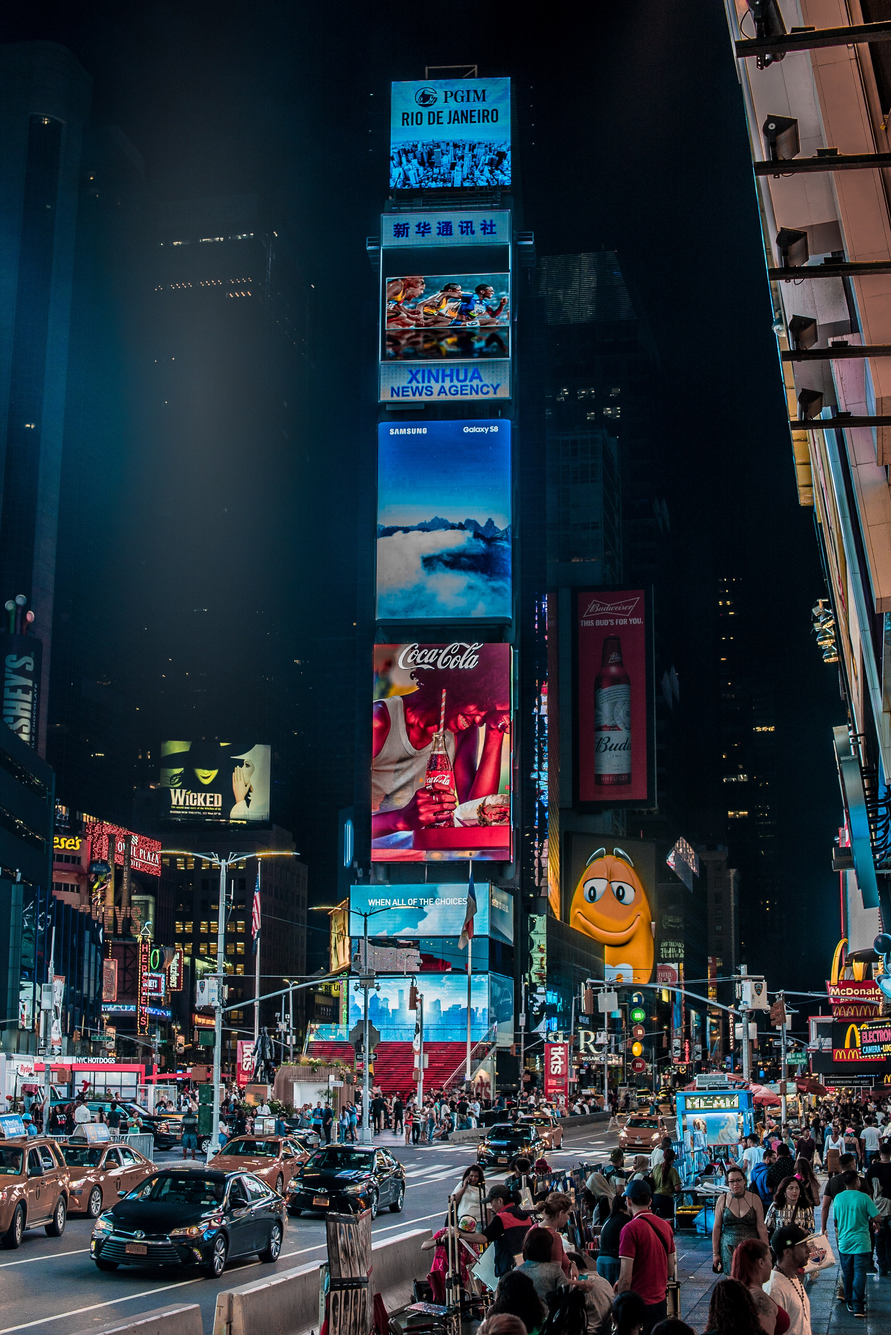
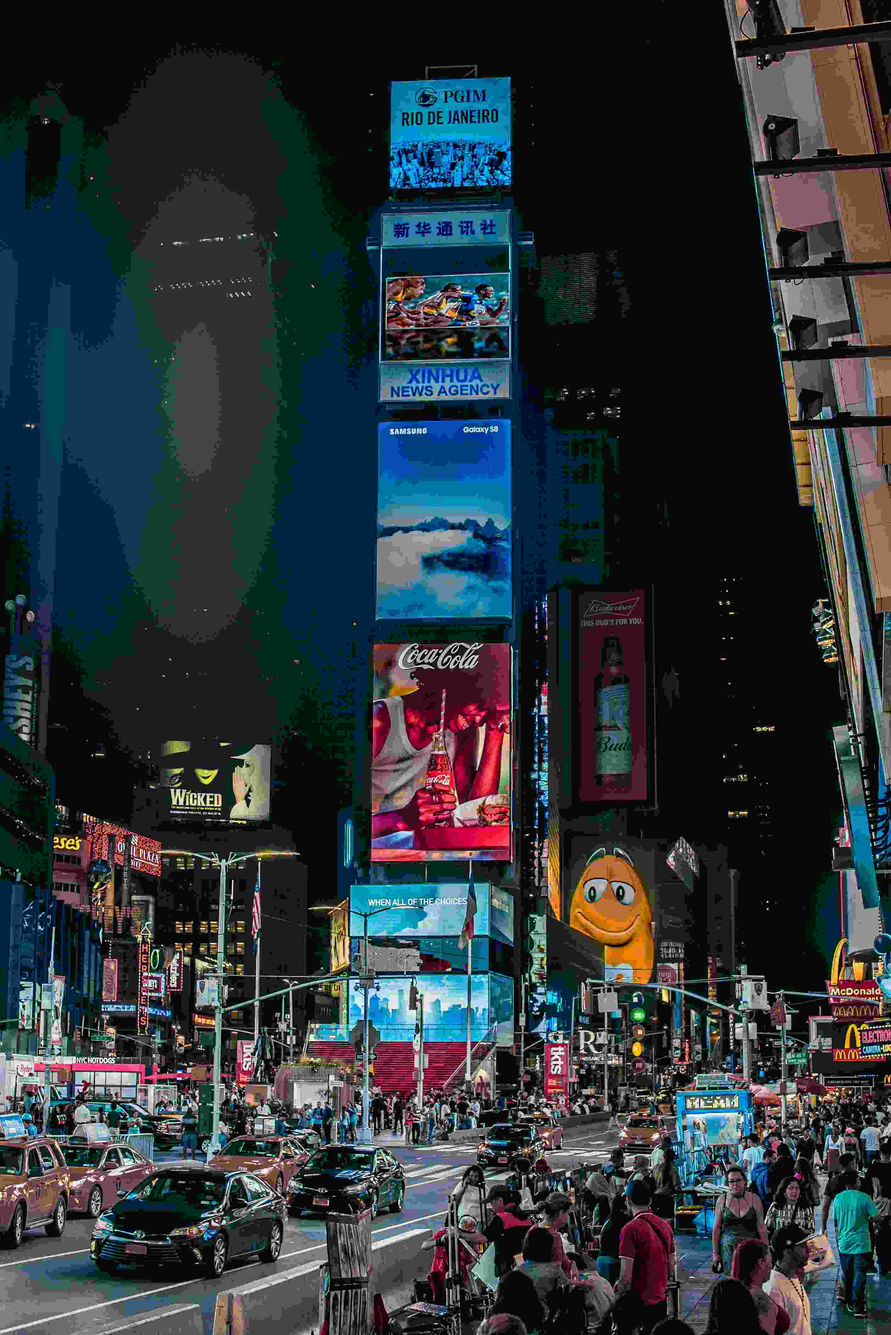
klar?

diff --git a/index.html b/index.html
@@ -9,7 +9,9 @@
 </head>
 <body>
     <nav>
-        <img src="img/logo.png" alt="logga" id="logo">
+        <div id="logo_pos">
+            <img src="img/logo.png" alt="logga" id="logo">
+        </div>
         <ul id="nav-links">
             <li><a href="index.html">Home</a></li>
             <li><a href="calculator.html">Calculator</a></li>
@@ -67,7 +69,7 @@
             <div class="home_image_border">
                 <img src="img/computer.jpg" alt="bild på dator" class="home_image">
                 <section>
-                    <h2 class="home_text" id="stand">We Stand for:</h2>
+                    <h2 class="home_text" id="stand">What We Stand for:</h2>
                     <p class="home_text">
                         1. Lorem ipsum dolor, amet consectetur elit adipisicing. Recusandae te
                     </p>
@@ -93,15 +95,15 @@
             <h2 class="home_image_text">Evaluate</h2>
             <div class="home_image_border" id="evaluate_wrapp">
                 <img src="img/office.jpg" alt="bild på kontor" class="home_image" id="ev_img">
-                <section>
-                    <p class="home_text" id="ev_txt">
+                <section id="ev_txt_wrapp" class="home_text" class="ev_txt">
+                    <p>
                         Lorem ipsum dolor sit, amet consectetur adipisicing elit. Recusandae
                         met conwdasectetur adipisicing elit. 
                     </p>
 
                     <br>
 
-                    <p class="home_text" id="ev_txt">
+                    <p>
                         Amet consectetur adipisicing elit. Recusandae te
                         met consectetur adipisicing elit teDebitis adipisci architecto enim, et quaerat id nesciunt atque assumenda provident fuga labore? 
                     </p>
@@ -112,11 +114,12 @@
         <br>
 
         <section id="revolutionize">
-            <h2 class="home_image_text">Revolutionize</h2>
+            <h2 class="home_image_text">Inspire</h2>
             <div class="home_image_border">
                 <img src="img/stock.jpg" alt="bild på aktie" class="home_image">
                 <div id="social_wrapper">
                     <h3 class="home_text">Follow Us on Our Social Media</h3>
+                    <br>
                     <ul id="social_wrapp" class="home_text">
                         <li class="item_social">Instagram <img src="img/instagram.png" alt="instagram" class="social"></li>
                         <li class="item_social">Facebook <img src="img/facebook.png" alt="facebook" class="social"></li>
@@ -172,7 +175,7 @@
         </div>
 
         <section id="home_explanation">
-            <h2 id="home_explanation_title">Our Purpose</h2>
+            <h2 class="home_explanation_title">Our Purpose</h2>
             <section id="home_explanation_text">
                 <p>
                     Lorem ipsum dolor sit amet consectetur 
@@ -185,15 +188,20 @@
 
                 <br>
 
-                <h2 id="home_explanation_title">Introduction</h2>
+                <h2 class="home_explanation_title">Introduction</h2>
                 <p>
                      Animi cum, saepe soluta 
                     reiciendis sequi nisi recusandae ipsam fug
                     iat vitae distinctio architecto enim error 
-                    sapiente facilis fuga! Harum, laborum amet?
-                    reiciendis sequi nisi recusandae ipsam fug
+                    sapiente he, laborum amet?
+                </p>
+
+                <br>
+
+                <p>
+                    Reiciendis sequi nisi recusandae ipsam fug
                     iat vitae distinctio architecto enim error 
-                    sapiente facilis fuga! Harum, laborum amet?
+                    sapiente facilis fuga, laborum amet?
                 </p>
             </section>
         </section>

diff --git a/css/style.css b/css/style.css
@@ -8,14 +8,19 @@ body {
     background-color: #1c1b22;
 }
 
-#logo {
+#logo_pos {
     display: flex;
-    position: absolute;
+    justify-content: flex-start;
     align-items: center;
-    margin-top: 16px;
-    margin-left: -110px;
-    height: 210px;
+    width: 100%;
     z-index: 2;
+    margin-right: 230px;
+}
+
+#logo {
+    position: absolute;
+    margin-top: 25px;
+    height: 210px;
 }
 
 nav {
@@ -165,7 +170,7 @@ h3 {
 }
 
 #stand {
-    margin-left: 240px;
+    margin-left: 200px;
 }
 
 #home_header_img {
@@ -176,16 +181,16 @@ h3 {
 
 #home_header_title {
     color: white;
-    font-size: 1.9rem;
+    font-size: 1.8rem;
     font-family: 'Lucida Sans', 'Lucida Sans Regular', 'Lucida Grande', 'Lucida Sans Unicode', Geneva, Verdana, sans-serif;
     position: absolute;
     top: 30%;
-    width: 350px;
+    width: 100%;
 }
 
 #home_header_text {
     color: rgb(194, 194, 194);
-    font-size: 1.2rem;
+    font-size: 1.1rem;
     font-family: 'Lucida Sans', 'Lucida Sans Regular', 'Lucida Grande', 'Lucida Sans Unicode', Geneva, Verdana, sans-serif;
     position: absolute;
     top: 45%;
@@ -196,7 +201,7 @@ h3 {
     z-index: 1;
     position: absolute;
     margin-top: 150px;
-    width: 150px;
+    width: 120px;
     height: 50px;
 }
 
@@ -397,7 +402,7 @@ li {
 
 #result {
     width: 100%;
-    height: 20vh;
+    height: 25vh;
     display: flex;
     justify-content: center;
     align-items: center;
@@ -466,6 +471,8 @@ li {
 
 .head_title {
     font-size: 1.5rem;
+    margin-left: 5px;
+    text-decoration: underline;
 }
 
 .headline {
@@ -494,6 +501,10 @@ li {
 #breaking_news_img {
     width: 100%;
     height: 200px;
+}
+
+#breaking_news_text {
+    font-size: 2rem;
 }
 
 #breaking_news {
@@ -738,7 +749,7 @@ li {
 
     #home_wrapper {
         display: grid;
-        grid-template-columns: 20px 370px 1fr 320px 20px;
+        grid-template-columns: 20px 380px 1fr 320px 20px;
         grid-template-rows: 100px 500px 80px 410px 410px 420px 580px 10px;
         grid-template-areas: 
             ".  .  .  .  . "
@@ -755,7 +766,8 @@ li {
     .ad_img {
         width: 100%;
         height: 100%;
-        filter: brightness(100%) blur(1px);
+        filter: brightness(90%) blur(0px);
+        border: 3px solid black;
     }
 
     .ad {
@@ -795,8 +807,12 @@ li {
     #ad2 {
         grid-area: a2;
     }
+    
+    #ev_txt_wrapp {
+        flex-direction: column;
+    }
 
-    #ev_txt {
+    .ev_txt {
         grid-area: et;
     }
 
@@ -835,7 +851,7 @@ li {
         font-family: -apple-system, BlinkMacSystemFont, 'Segoe UI', Roboto, Oxygen, Ubuntu, Cantarell, 'Open Sans', 'Helvetica Neue', sans-serif;
     }
     
-    #home_explanation_title {
+    .home_explanation_title {
         font-size: 2rem;
         color: rgb(255, 255, 255);
     }
@@ -1018,7 +1034,7 @@ li {
     }
 
     #breaking_news_text {
-        margin-left: 20px;
+        font-size: 2.3rem;
     }
 
     #bnt {
@@ -1029,7 +1045,7 @@ li {
 
     #news_header {
         position: relative;
-        margin-top: 50px;
+        margin-top: 80px;
         height: 10px;
         grid-area: nh;
     }
@@ -1159,7 +1175,7 @@ li {
         flex-direction: column;
         margin-top: 100px;
         width: 26vw;
-        height: 1400px;
+        height: 1350px;
         grid-area: if;
         border: 2px solid #218fa6; 
     }
@@ -1248,7 +1264,6 @@ li {
         display: flex;
         position: relative;
         align-items: center;
-        margin-right: 84vw;
         margin-top: 25px;
         height: 180px;
         z-index: 2;

diff --git a/calculator.html b/calculator.html
@@ -9,8 +9,10 @@
 </head>
 <body id="calc_body">
     <nav>
-        <img src="img/logo.png" alt="logga" id="logo">
-        <ul id="nav-links">
+        <div id="logo_pos">
+            <img src="img/logo.png" alt="logga" id="logo">
+        </div>
+            <ul id="nav-links">
             <li><a href="index.html">Home</a></li>
             <li><a href="calculator.html">Calculator</a></li>
             <li><a href="news_stats.html">News & Statistics</a></li>
@@ -100,7 +102,7 @@
             <section class="explanation">
                 <h2 class="explanation_title">How does SVC work?</h2>
                 <p class="exp_text">
-                    On the market today, there are few calculators that can estimate the value of shares, and it is therefore difficult and time-consuming for individuals to familiarize themselves with shares and the stock market. This website is designed to, based on calculations and data that is either available on the internet or subjective estimates,  calculate the value of an individual share and thus facilitate in deciding whether a share has a reasonable price or not.
+                    On the market today, there are few calculators that can estimate the value of shares, and it is therefore difficult and time-consuming for individuals to familiarize themselves with shares and the stock market. This website is designed to, based on calculations and data, calculate the value of an individual share and thus facilitate in deciding whether a share has a reasonable price or not.
                 </p>
             </section>
 

diff --git a/news_stats.html b/news_stats.html
@@ -9,8 +9,10 @@
 </head>
 <body>
     <nav>
-        <img src="img/logo.png" alt="logga" id="logo">
-        <ul id="nav-links">
+        <div id="logo_pos">
+            <img src="img/logo.png" alt="logga" id="logo">
+        </div>
+            <ul id="nav-links">
             <li><a href="index.html">Home</a></li>
             <li><a href="calculator.html">Calculator</a></li>
             <li><a href="news_stats.html">News & Statistics</a></li>
@@ -65,10 +67,10 @@
                     <div id="breaking_news_wrapper">
                         <article id="breaking_news" class="headline">
                             <img src="img/news1.jpg" alt="nyhet" id="breaking_news_img">
-                            <p id="breaking_news_text">
+                            <h2 id="breaking_news_text">
                                 <span style="color: rgb(255, 115, 0);">Right Now:</span>
                                 "Corporis doloribus, odit?" - Names Bond
-                            </p>
+                            </h2>
                             <p id="bnt">
                                 Adipisicing telar. Recusandae Lorem consectetur ipsum dolor...
                             </p>
@@ -139,8 +141,3 @@
     
 </body>
 </html>
-
-<!-- social media -->
-<!-- text under varje ikon -->
-<!-- två knappar, bredare -->
-<!-- reklam -->

diff --git a/about_us.html b/about_us.html
@@ -9,8 +9,10 @@
 </head>
 <body>
     <nav>
-        <img src="img/logo.png" alt="logga" id="logo">
-        <ul id="nav-links">
+        <div id="logo_pos">
+            <img src="img/logo.png" alt="logga" id="logo">
+        </div>
+            <ul id="nav-links">
             <li><a href="index.html">Home</a></li>
             <li><a href="calculator.html">Calculator</a></li>
             <li><a href="news_stats.html">News & Statistics</a></li>
